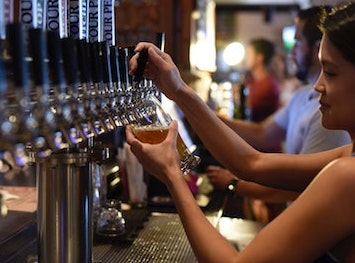
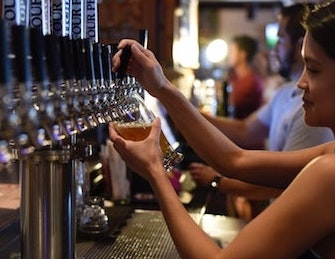
added clip path to portfolio, changed top border to accent color

diff --git a/Assets/Css/style.scss b/Assets/Css/style.scss
@@ -271,7 +271,7 @@ footer {
   h1:focus {
     background-color: color(accent);
     color: color(text-white);
-    transition: 0.33s ease;
+    transition: $transition-time;
   }
 
   p {
@@ -326,8 +326,8 @@ footer {
 .portImage {
   width: 17.2em;
   height: 14em;
-  border-radius: 5%;
-  border: 0.3rem solid color(accent);
+  border: 0.2rem solid color(accent);
+  clip-path: polygon(100% 0, 100% 69.5%, 78.5% 100%, 0 100%, 0 0);
 }
 
 .portfolio {

diff --git a/Assets/Css/style.css b/Assets/Css/style.css
@@ -344,8 +344,9 @@ footer {
 .portImage {
   width: 17.2em;
   height: 14em;
-  border-radius: 5%;
-  border: 0.3rem solid #e59500;
+  border: 0.2rem solid #e59500;
+  -webkit-clip-path: polygon(100% 0, 100% 69.5%, 78.5% 100%, 0 100%, 0 0);
+          clip-path: polygon(100% 0, 100% 69.5%, 78.5% 100%, 0 100%, 0 0);
 }
 
 .portfolio {
